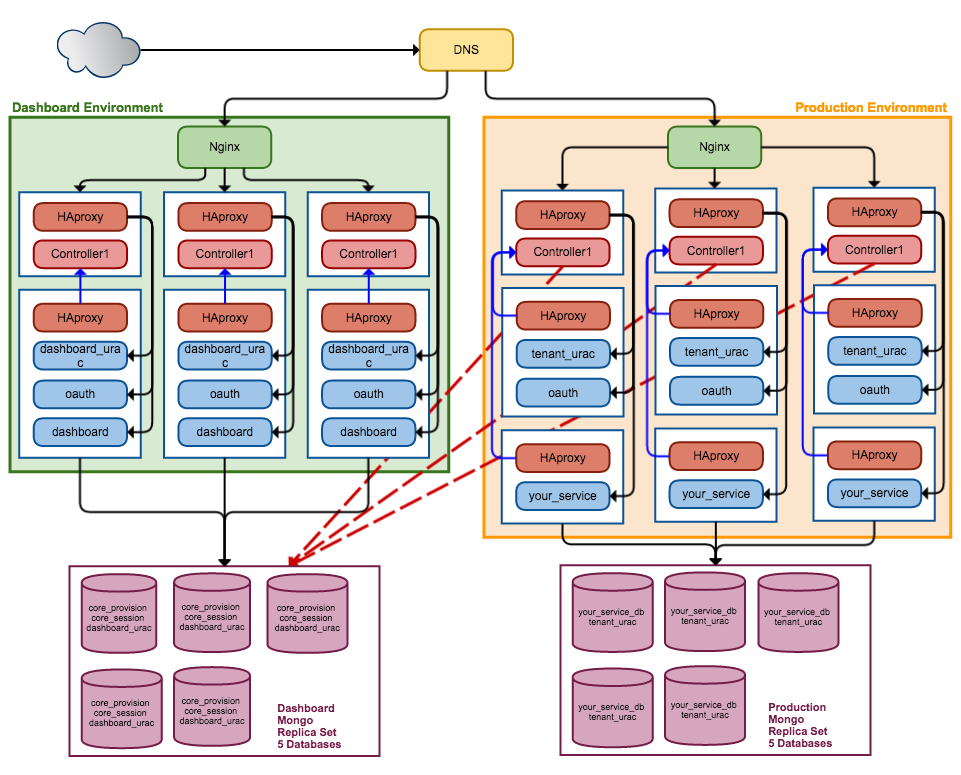
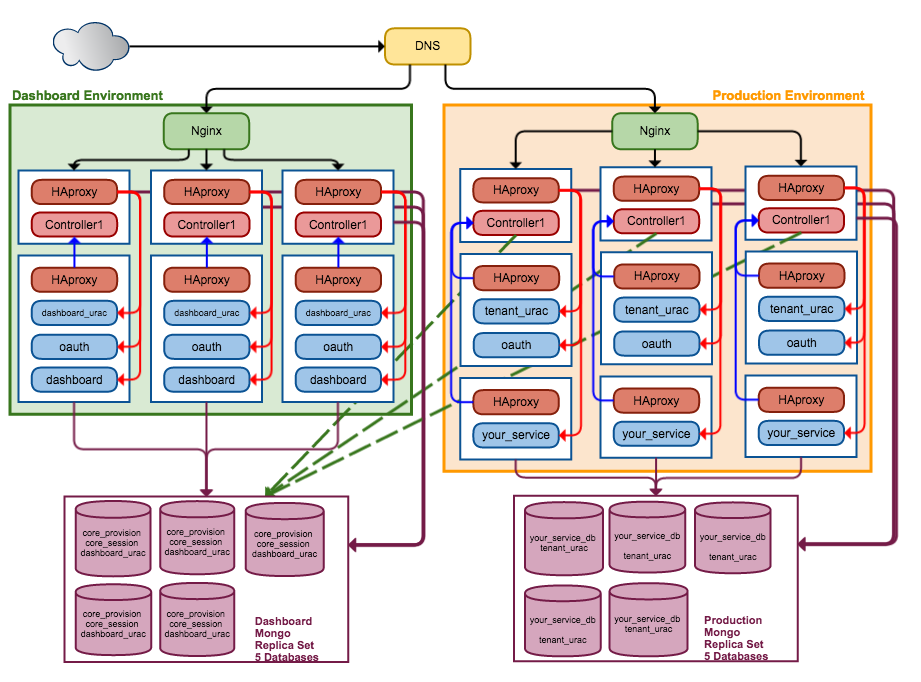
updated cloud awareness documentation, added new images. updated data in soajs.utilities to meet documentation.

diff --git a/sections/documentation/deployment/cloud-awareness.html b/sections/documentation/deployment/cloud-awareness.html
@@ -1,7 +1,6 @@
 <a id="cloud-awareness"></a>
 <h1>Cloud Awareness</h1>
 <div class="white-container">
-	<div class="redFlag">Will be completed soon.</div>
 	<p>
 		In <a href="#/documentation/deployment/overview">Overview</a> we showed the below diagram and mentioned the technologies needed to get SOAJS up and running on either one machine or a cloud. In this Section we will demonstrate how to install SOAJS and these needed technologies as well as how
 		to configure them on different nodes creating a cloud.<br/>
@@ -16,6 +15,10 @@
 		The cloud architecture is split up to two Environments: <b>Dashboard</b> - <b>Custom</b>.<br/>
 		The Dashboard Environment is used to manage the content of core databases such as provisioned tenants, products and environments. The Dashboard also manages the users that have access to this environment ( members of the administrator group ). This environment is independent from the custom
 		environments and the database layer. This environment contains a list of nodes that provided access and services to the database to managed the mentioned data types.<br/><br/>
+		<div style="width:100%; text-align:center; display:table; float:none; clear:both;">
+			<img ng-src="images/documentation/cloud-awareness-full.png"/>
+		</div>
+		<br />
 		The Custom Environment on the other hand summarizes three environments that you might use while developing any project:
 	</p>
 	<ul>
@@ -253,7 +256,138 @@ $ export SOAJS_REGDIR=/opt/soajs/node_modules/soajs.utilities/deployment/cloud/d
 		</accordion-group>
 		<accordion-group heading="Step 3: Production Environment">
 			<p>
+				The Production environment consists of a set of servers that communicate with one another to provide access to the mongo-prod VM which contains the data databases that are used by tenant services and your custom made services. The set of servers is also replicated for load balancing and traffic distribution. The setup is close to the above dashboard environment with one difference, we don't need the dashboard service here.<br />
+				We will create a VM and install Nginx on it. We will instruct Nginx to upstream 3 servers that contain the controller of SOAJS which is the main gateway so that all requests arriving to the services get handled by all 3 servers.<br />
+				The Environment will contain an additional server that runs the urac, oAuth and your custom services. The urac service in this case is tenant driven this means that every tenant you create will have its own database, its own users and groups therefore, in this tutorial we will refer to it as tenant_urac when it comes to this environment.<br />
+				The image below demonstrate what the Production Environment will look like when we complete this step.<br />
+				<img ng-src="images/documentation/cloud-dashboard-prod.png" /><br />
+				As you can see, the setup is quite close to what we did in the dashboard environment. We made one difference here, we chose to use 9 servers: 3 for controllers, 3 for soajs services and 3 for your custom services. You can merge the servers that contains soajs services with your custom services if you want to reduce the numbers of servers from 9 to 6.<br /><br />
+				Notice that here as well, the servers are replicated and that HAproxy is present and used to tell point out the servers IP addresses for the controllers and our services as demonstrated by the <span style="color:blue;">blue</span> and <span style="color:red;">red</span> arrows. Here is the list of IP addresses we will use for this environment:
+			</p>
+			<ul>
+				<li>mongo-prod: 192.168.0.102</li>
+				<li>Nginx: 192.168.0.70</li>
+				<li>Controller 1: 192.168.0.71</li>
+				<li>Controller 2: 192.168.0.72</li>
+				<li>Controller 3: 192.168.0.73</li>
+				<li>SOAJS Services Server 1: 192.168.0.81</li>
+				<li>SOAJS Services Server 2: 192.168.0.82</li>
+				<li>SOAJS Services Server 3: 192.168.0.83</li>
+				<li>Custom Service Server 1: 192.168.0.91</li>
+				<li>Custom Service Server 2: 192.168.0.92</li>
+				<li>Custom Service Server 3: 192.168.0.93</li>
+			</ul>
+			<p>
+				Go ahead and create all these VMs with the exception of the mongo-prod, we already did that. Install Nginx on the first VM and for the remaining 9 VMS install haproxy and nodejs on all of them. You will also need to create the soajs directory and install soajs.utilities on them all.
+			</p>
+			<b><u>Nginx Setup:</u></b>
+			<p>
+				Once you have created all 10 VMs, install Nginx using below the command on the Nginx VM 192.168.0.70:
+				<pre><code class="bash"># install Nginx latest stable version
+$ apt-get install nginx</code></pre>
+				When Nginx is installed, locate its configuration file; On Ubuntu the configuration file is located in /etc/nginx/nginx.conf. Open that file in edit mode, scroll to the bottom and instruct nginx to also look at the soajs.utilities/deployment/cloud/prod/nginx/conf/ folder and load all the configuration files in it, add the line before the closing bracelet of http inside the nginx.conf.
+				<pre><code class="javascript">http {
+	# default nginx configuration goes here
+	include /opt/soajs/soajs.utilities/deployment/cloud/prod/nginx/conf/*.conf;
+}</code></pre>
+				This line will now load the Nginx configuration that SOAJS needs when Nginx starts. Inside the conf folder, you will find a file named upstream.conf. If you have chosen different IP addresses for your controllers, make sure you updated the entries in that file.<br/>
+				Edit your hosts file and add the following entry to point out the domain of the the controller.
+				<pre><code class="bash">$ sudo gedit /etc/hosts
+127.0.0.1 api.soajs.org</code></pre>
+				<em>You can also copy these entries from soajs.utilities/deployment/cloud/prod/hosts to your /etc/hosts file.</em><br/>
+			Go ahead and Start Nginx Now:
+			<pre><code class="bash">$ sudo Nginx</code></pre>
+			When Nginx starts, test the configuration you just created by opening your browser and invoking the domain: <b>api.soajs.org</b>. Nginx will reply with a <b>502 Bad Gateway</b> Error instead of Server not Found. Till this point, this is normal because we haven't started any service yet, but the important thing is that Nginx is now redirecting the requests to a local SOAJS server assuming that the later is up and running.
+			</p>
+			<br/>
+			<b><u>Services Setup:</u></b>
+			<!--  -->
+			<p>
+				Now let's install the services on the remaining 9 VMs; 3 of them will contain controllers and 3 will contain oAuth and Urac and 3 will contain your services.<br/>
+				On each controller VM, install nodejs and HAproxy, then install the controller and the utilities of SOAJS.<br/>
+				Execute the below commands in your terminal:
+				<pre><code class="bash"># install haproxy
+$ apt-get install haproxy
 
+# install nodejs
+$ apt-get install nodejs
+
+# create folder path to put all soajs components in it
+$ mkdir -p /opt/soajs/node_modules/
+
+# install SOAJS controller and utilities
+$ npm install soajs.controller
+$ cd soajs.controller
+
+$ npm install soajs.utilities</code>
+				</pre>
+			The next step requires to configure HAproxy to tell the controllers what are the IP address of the services that we have in the cloud.<br />
+			First create a backup of the default HAproxy file in /etc/haproxy/haproxy.cfg, then Navigate to soajs.utilities/deployment/cloud/prod/ and copy the file prod-controller-haproxy.cfg to /etc/haproxy/ and rename it to haproxy.cfg.<br />
+			Keep in mind that if you have chosen a different IP set for the services, you need to edit this file and change the IP address in it to meet your configuration.
+			</p>
+			<p>
+				Once the controller VMs are completed, we need to set up the remaining services. In the diagram above we have 6 servers and we gave them IP addresses 192.168.0.81/82/83/91/92/93. On each service VM, install nodejs and HAproxy then install the utilities, urac, oauth and your service.<br />
+			</p>
+			<pre><code class="bash"># install haproxy
+$ apt-get install haproxy
+
+# install nodejs
+$ apt-get install nodejs
+
+# create folder path to put all soajs components in it
+$ mkdir -p /opt/soajs/node_modules/
+
+# install soajs.utilities
+$ npm install soajs.utilities
+
+# install soajs.urac
+$ npm install soajs.urac
+
+# install soajs.oauth
+$ npm install soajs.oauth
+
+# install your_service
+$ npm install your_service</code>
+			</pre>
+			<p>
+				You also need to configure HAproxy on these 6 VMs to point to the controller VMs. Again locate HAproxy configuration file and create a backup copy of /etc/haproxy/haproxy.cfg, then Navigate to soajs.utilities/deployment/cloud/prod/ and copy the file prod-services-haproxy.cfg to /etc/haproxy/ and rename it to haproxy.cfg.<br /> If you chose to use different IP addresses than the ones in this tutorial, keep in mind you need to update this configuration file as well and set the correct IP addresses values.
+			</p>
+			<p>
+				Now point out the database servers so that both the controllers and the services can connect to mongo-core and to mongo-prod. In this environment, the services need to read from core and from the prod databases. In the dashboard environment we only needed to connect to core. The logic behind this strategy is that when a request is made and a tenant key is provided for example, the tenant records are located in core and to cross reference the key value, data from core need to be accessible.<br />
+				So in all 9 VMs we created last, edit the /etc/hosts file and add the following entry:
+				<pre><code class="bash"># edit /etc/hosts
+192.168.0.101 mongo-core
+192.168.0.102 mongo-prod</code>
+				</pre>
+			<img ng-src="images/documentation/cloud-prod-env-full.png" /><br />
+			<br />By now you have completed 2/3rd of setting up this environment and you should have something that resembles the above diagram.<br /><br />
+			Notice the <span style="color:purple;">purple</span> arrows as they point out that all our servers in the production environment connect to the production database server and the <span style="color:green;">green</span> arrows point out the connection to the core database server.<br />
+			Here is a summary of list of VMs we used for this environment and their IP addresses:
+			</p>
+			<p>
+				The final step to complete this environment setup is to use the correct SOAJS environment project. As mentioned in the <a href="#/documentation/core/registry">Registry</a>, SOAJS supports multiple projects, and in this case we need to use the prod project that contains the environment variables that we need for this cloud using the above IP addresses from the tutorial. The prod project is located in soajs.utilities/deployment/cloud/prod/profiles/prod.<br />
+				In all 9 VMS where we installed soajs.utilities, create 3 environment variables and give them the following values:
+			</p>
+			<pre><code class="bash"># set the environment name to prod
+$ export SOAJS_ENV=prod
+
+# set the project name to prod
+$ export SOAJS_PRJ=prod
+
+# point out the location of the project
+$ export SOAJS_REGDIR=/opt/soajs/node_modules/soajs.utilities/deployment/cloud/prod/</code></pre>
+			<p>
+				Edit the file /opt/soajs/node_modules/soajs.utilities/deployment/cloud/prod/environment/prod.js, at the bottom you will see a registry entry for your service, make sure you set the correct values before you start the services.
+				<pre><code class="javascript">
+"your_service": {
+	"extKeyRequired": true,
+	"port": 4003,
+	"host": "127.0.0.1",
+	"url": "http://127.0.0.1:4000/your_service"
+}</code>
+				</pre>
+				<u>Note:</u> the varialbe <b>your_service</b> is also present at /opt/soajs/node_modules/soajs.utilities/deployment/cloud/prod/prod-controller-haproxy.cfg, make sure you update the value as well.<br />
+				Once you completed all above steps, start all the services in all 9 VMs and the Production Environment will run.
 			</p>
 		</accordion-group>
 	</accordion>
